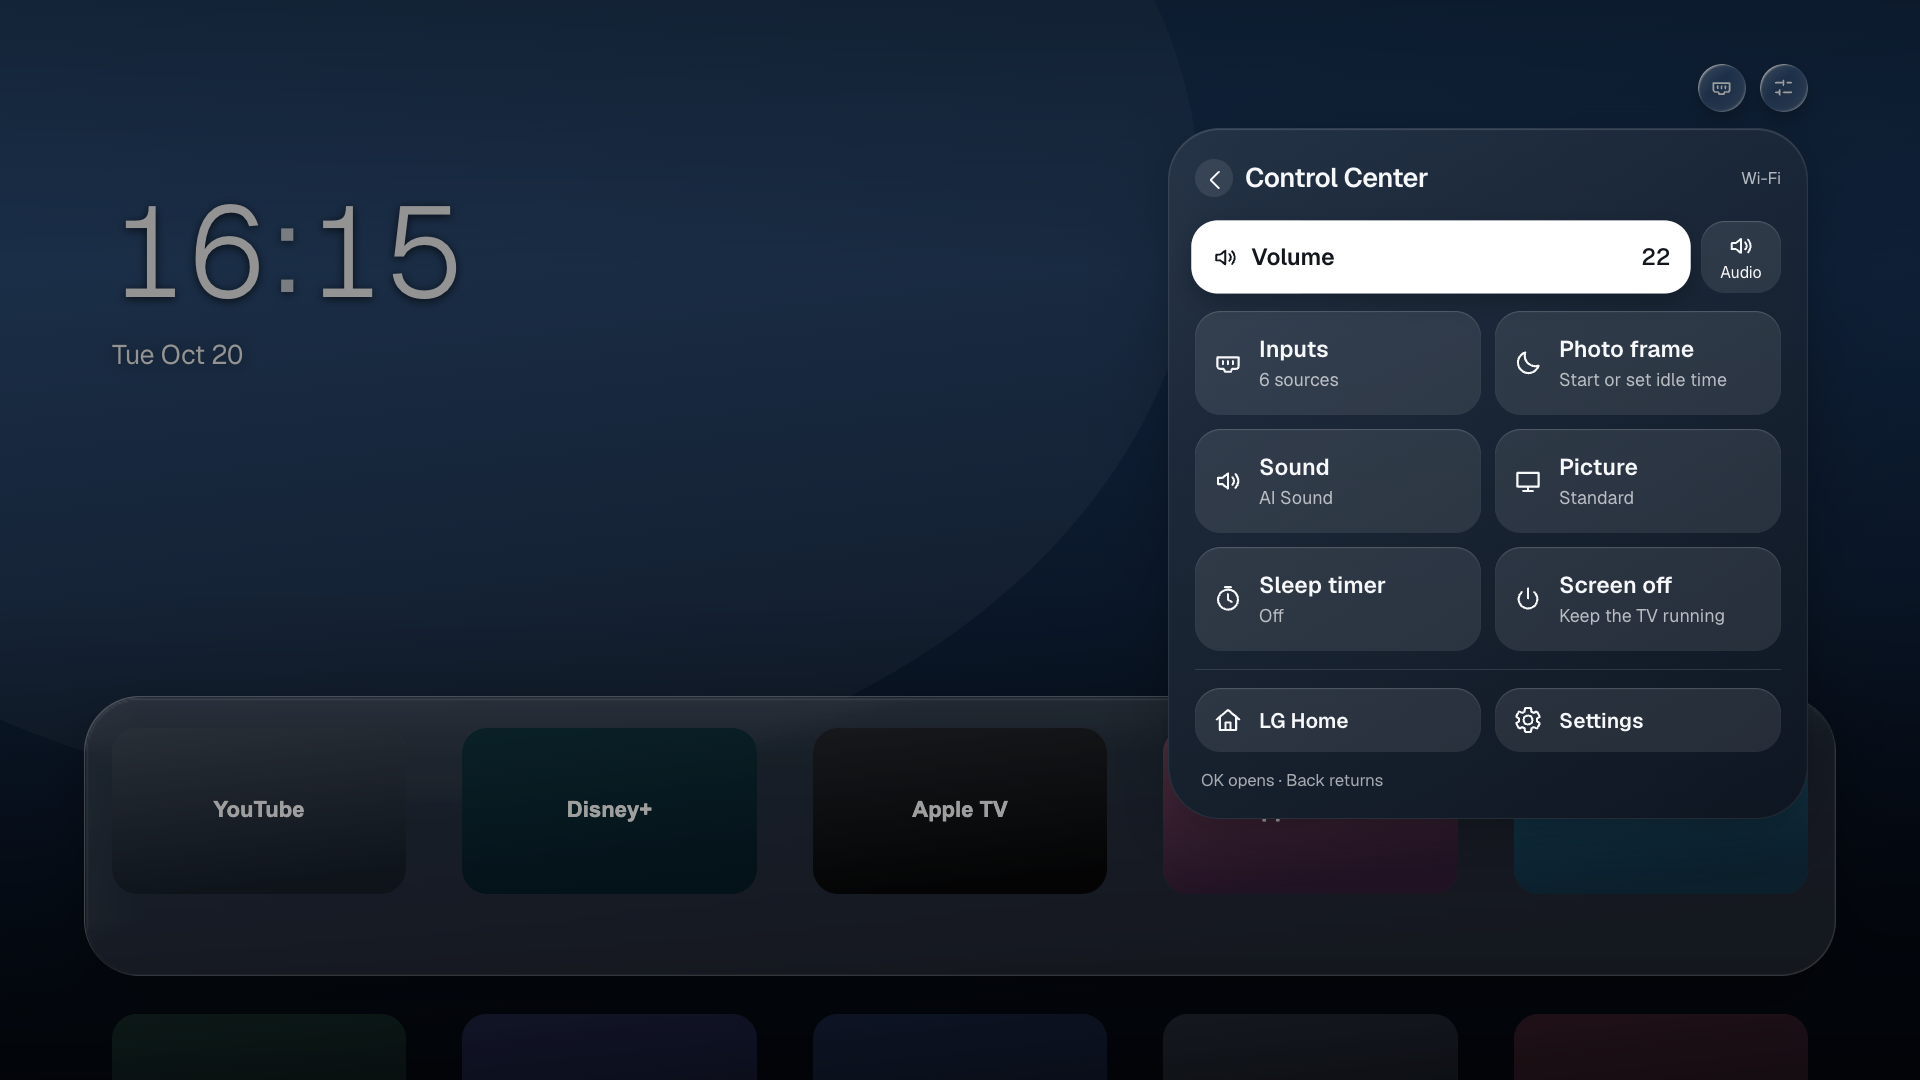
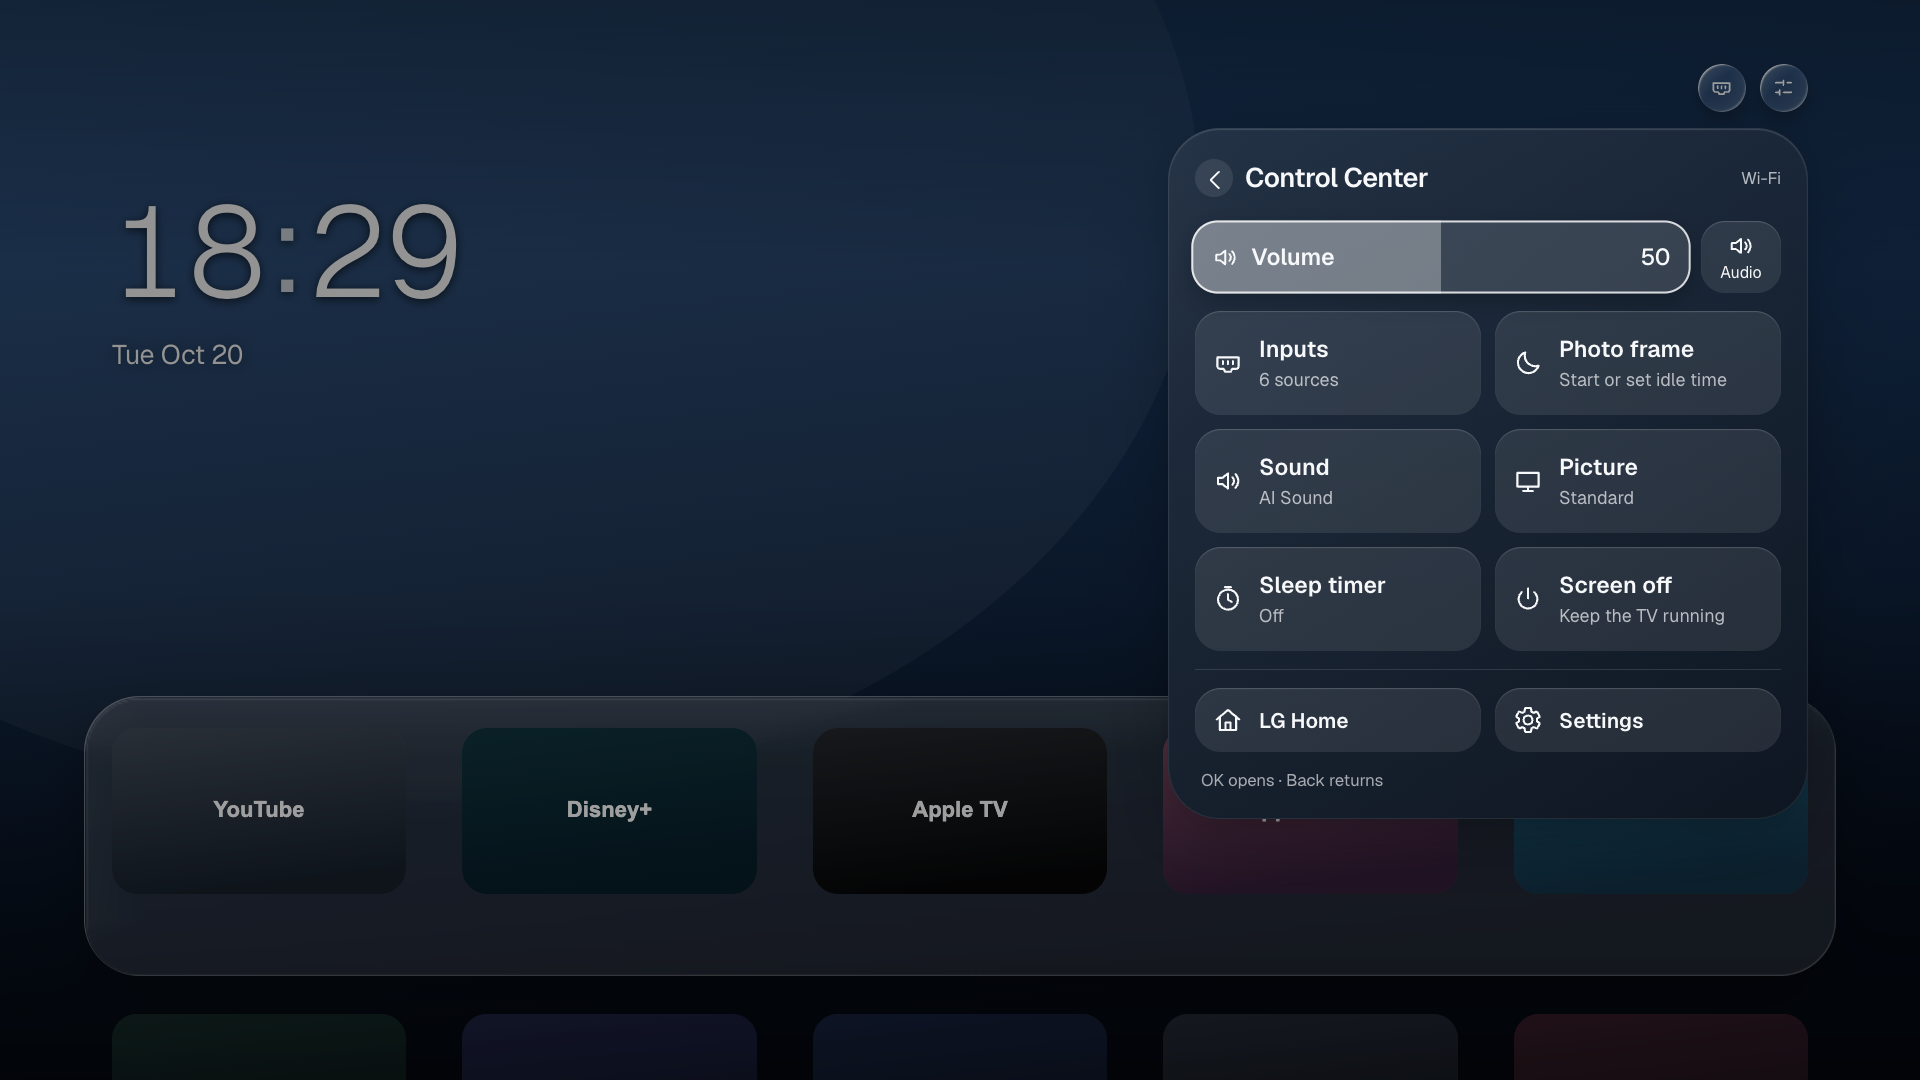
fix: keep focused volume fill visible

Changed region(s): [[0.5938, 0.1833, 0.9062, 0.275], [0.0938, 0.1833, 0.25, 0.275]]

diff --git a/trial/overlay/src/theme/trial.css b/trial/overlay/src/theme/trial.css
@@ -134,6 +134,10 @@ html.light .panel--cc { background-image:linear-gradient(140deg,rgba(240,244,248
 .cc__volume-row { display:flex;margin:0 0 18px; }
 .panel--surface .cc__slider { flex:1 1 auto;min-width:0;height:72px;margin:0 14px 0 0;border-radius:26px; }
 .panel--surface .cc__fill { background:rgba(255,255,255,.18); }
+/* A slider keeps its track/fill contrast under focus; a solid button background
+   makes its translucent fill disappear and falsely look like 100% volume. */
+.panel--surface .cc__slider.surface-button--focused { background:rgba(255,255,255,.13);color:#f7f8fa;box-shadow:0 8px 22px rgba(0,0,0,.24),inset 0 0 0 2px rgba(255,255,255,.8); }
+.panel--surface .cc__slider.surface-button--focused .cc__fill { background:rgba(255,255,255,.3); }
 .panel--surface .cc__slidertext { padding:0 20px;font-size:23px;color:inherit; }
 .panel--surface .cc__slidertext svg { stroke:currentColor;width:27px;height:27px;margin-right:12px; }
 .cc__audio { flex:0 0 80px;display:flex;flex-direction:column;align-items:center;justify-content:center;padding:6px;border-radius:24px; }
@@ -162,6 +166,8 @@ html.light .panel--surface .surface-button { background:rgba(255,255,255,.34); }
 html.light .panel--surface .surface-button--focused { background:#17202b!important;color:white!important; }
 html.light .panel--surface .surface-button svg { stroke:currentColor; }
 html.light .panel--surface .cc__fill { background:rgba(20,32,44,.12); }
+html.light .panel--surface .cc__slider.surface-button--focused { background:rgba(255,255,255,.5)!important;color:#17202b!important;box-shadow:0 8px 22px rgba(0,0,0,.16),inset 0 0 0 2px rgba(20,32,44,.75); }
+html.light .panel--surface .cc__slider.surface-button--focused .cc__fill { background:rgba(20,32,44,.18); }
 html.light .panel--surface .cc__utilities { border-color:rgba(20,32,44,.13); }
 @media (prefers-reduced-motion:reduce) { .panel--surface .surface-button { transition:none; } }
 /* Chromium 68's default scrollbar is a bright desktop control; keep TV lists quiet. */

diff --git a/trial/README.md b/trial/README.md
@@ -3,7 +3,7 @@
 This trial adds a five-column expanding app grid, more reliable native icon loading,
 an in-app photo frame, and shared Inputs / Control Center panels. It is based on
 Lumen `497e9182fd9d0d12d7ed9bfbafc0ee15d7139a79` and installs separately as
-`local.lumen.trial` (version 0.3.9), preserving the original Lumen installation.
+`local.lumen.trial` (version 0.3.10), preserving the original Lumen installation.
 
 These browser previews use synthetic preferences and generated text cards, not TV data:
 
@@ -92,7 +92,7 @@ own installed apps. Existing trial preferences continue to load from localStorag
 ## Install and recovery
 
 Install the package from `app/build/` with Dev Manager Desktop or a configured
-`ares-install --device DEVICE app/build/local.lumen.trial_0.3.9_all.ipk`.
+`ares-install --device DEVICE app/build/local.lumen.trial_0.3.10_all.ipk`.
 Rooted-TV features use the existing Homebrew Channel service; the trial does not
 install a new system service or change the Home button, startup app, LG screensaver
 timer, clock or hosts file. LG Home remains available from Control Center and the
@@ -119,7 +119,10 @@ The runner starts and stops its own local preview on port 5187. It uses syntheti
 app preferences, mocked photo responses and sanitized webOS 5 control fixtures.
 It checks icon chunking/cache behavior, grid editing and folders, photo-frame wake
 handling, text geometry, settings errors, stale reads, outside setting changes,
-active versus last-used inputs and light appearance. Artifacts go to the ignored
+active versus last-used inputs and light appearance. Rendered-pixel checks exercise
+volume fill visibility at 25/50/75, plus empty/full geometry, focused and unfocused
+in both appearances. Remote volume changes retain focus while updating the fill.
+Artifacts go to the ignored
 `.trial-evidence/` directory. Set `CHROMIUM_PATH` to use an existing Chromium binary
 instead of Playwright's downloaded browser.
 
@@ -169,7 +172,19 @@ suites passed, along with public/private production builds and IPK packaging.
 Native checks on the same LG verified each panel path, all five lists, rapid remote
 movement, one cue per focus change and one shared readiness stream. Installed bundle
 and selected-cue hashes matched, and saved preferences, volume and audio settings
-were preserved. Panel listening acceptance is tracked separately from these API checks.
+were preserved. The owner subsequently confirmed that Inputs and Control Center
+sounds work well and feel immediate with the local selected cue.
+
+Version 0.3.10 fixes a focused volume slider that looked full at every value.
+The shared white focus background hid its translucent white fill even though the
+fill width and number were correct. The slider now retains a contrasting track
+and fill with its own focus outline in dark and light appearances. A rendered-pixel
+regression test failed on the old styling and passes with this correction at
+25/50/75, alongside empty/full geometry and remote volume edits without losing
+focus. Panel, visual and navigation-audio suites, both production builds and both
+IPK packages passed. Native LG checks verified live focused changes, both
+appearances, installed bundle/cue hashes, restored volume and unchanged preferences
+and sound settings. Menu opening/closing remains quiet.
 
 A full ten-minute idle check was explicitly skipped. Standby/resume, a multi-hour
 slideshow and other TV models/firmwares remain unverified. This is an experimental
